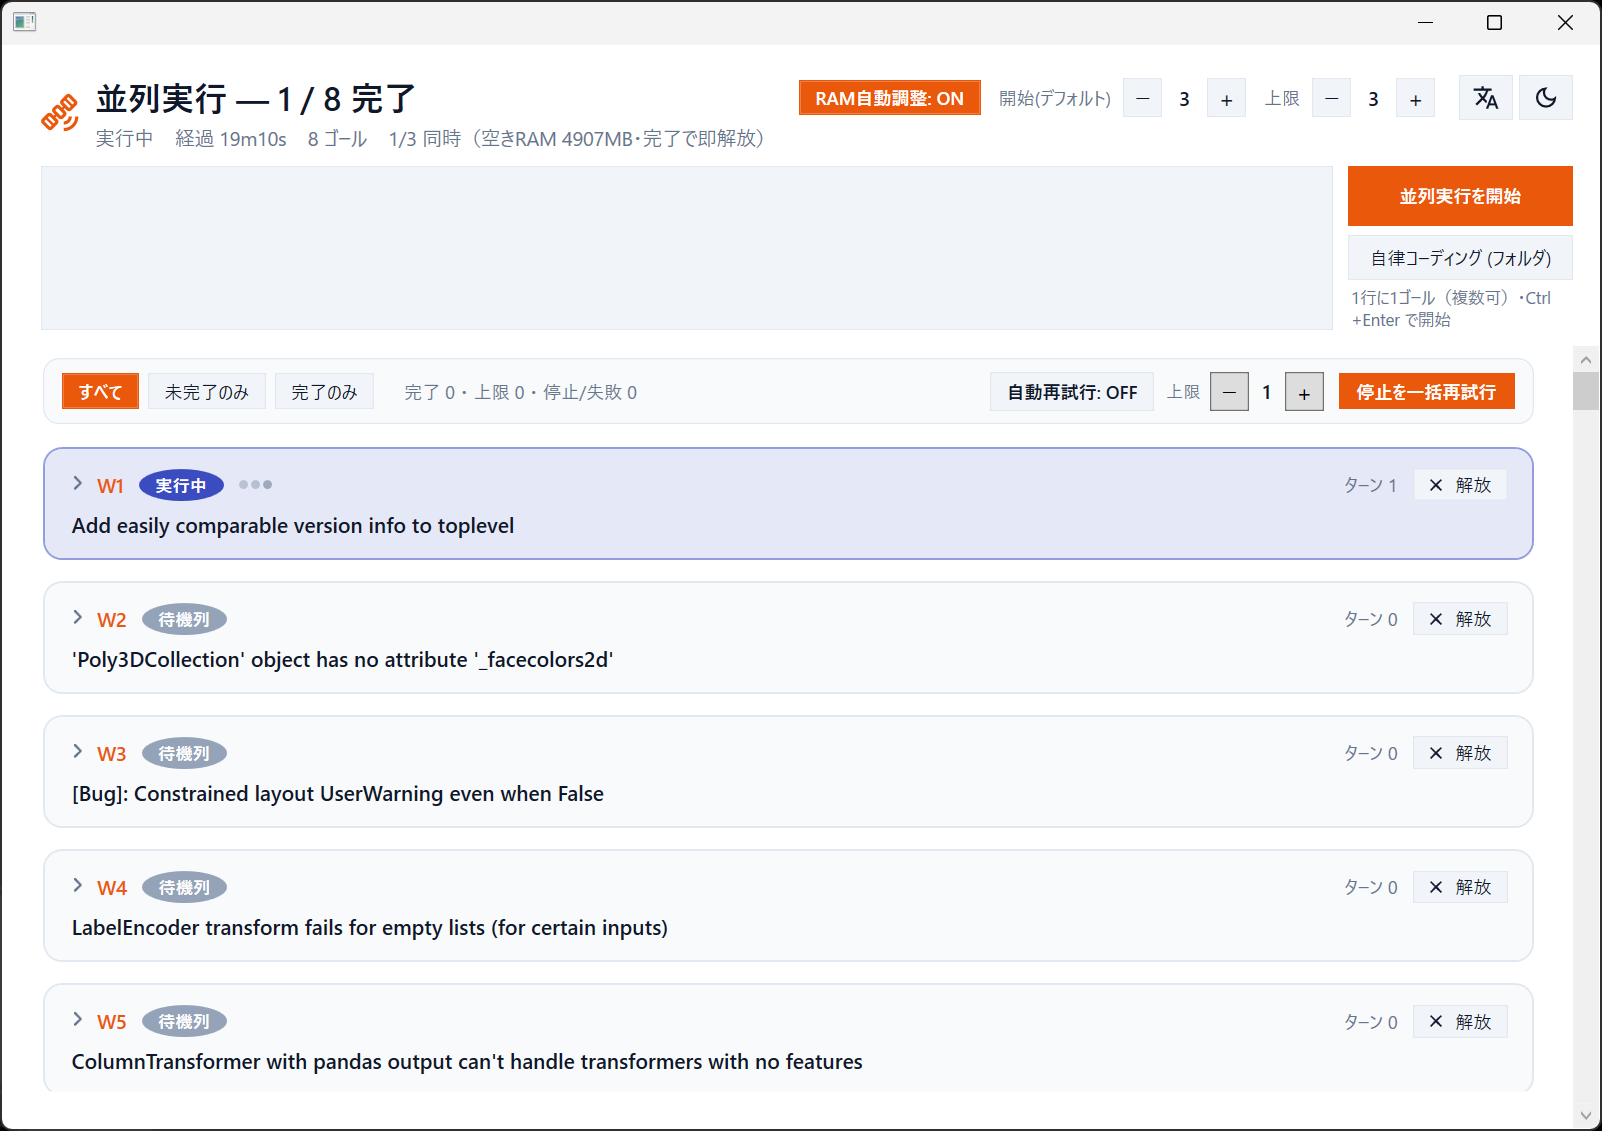
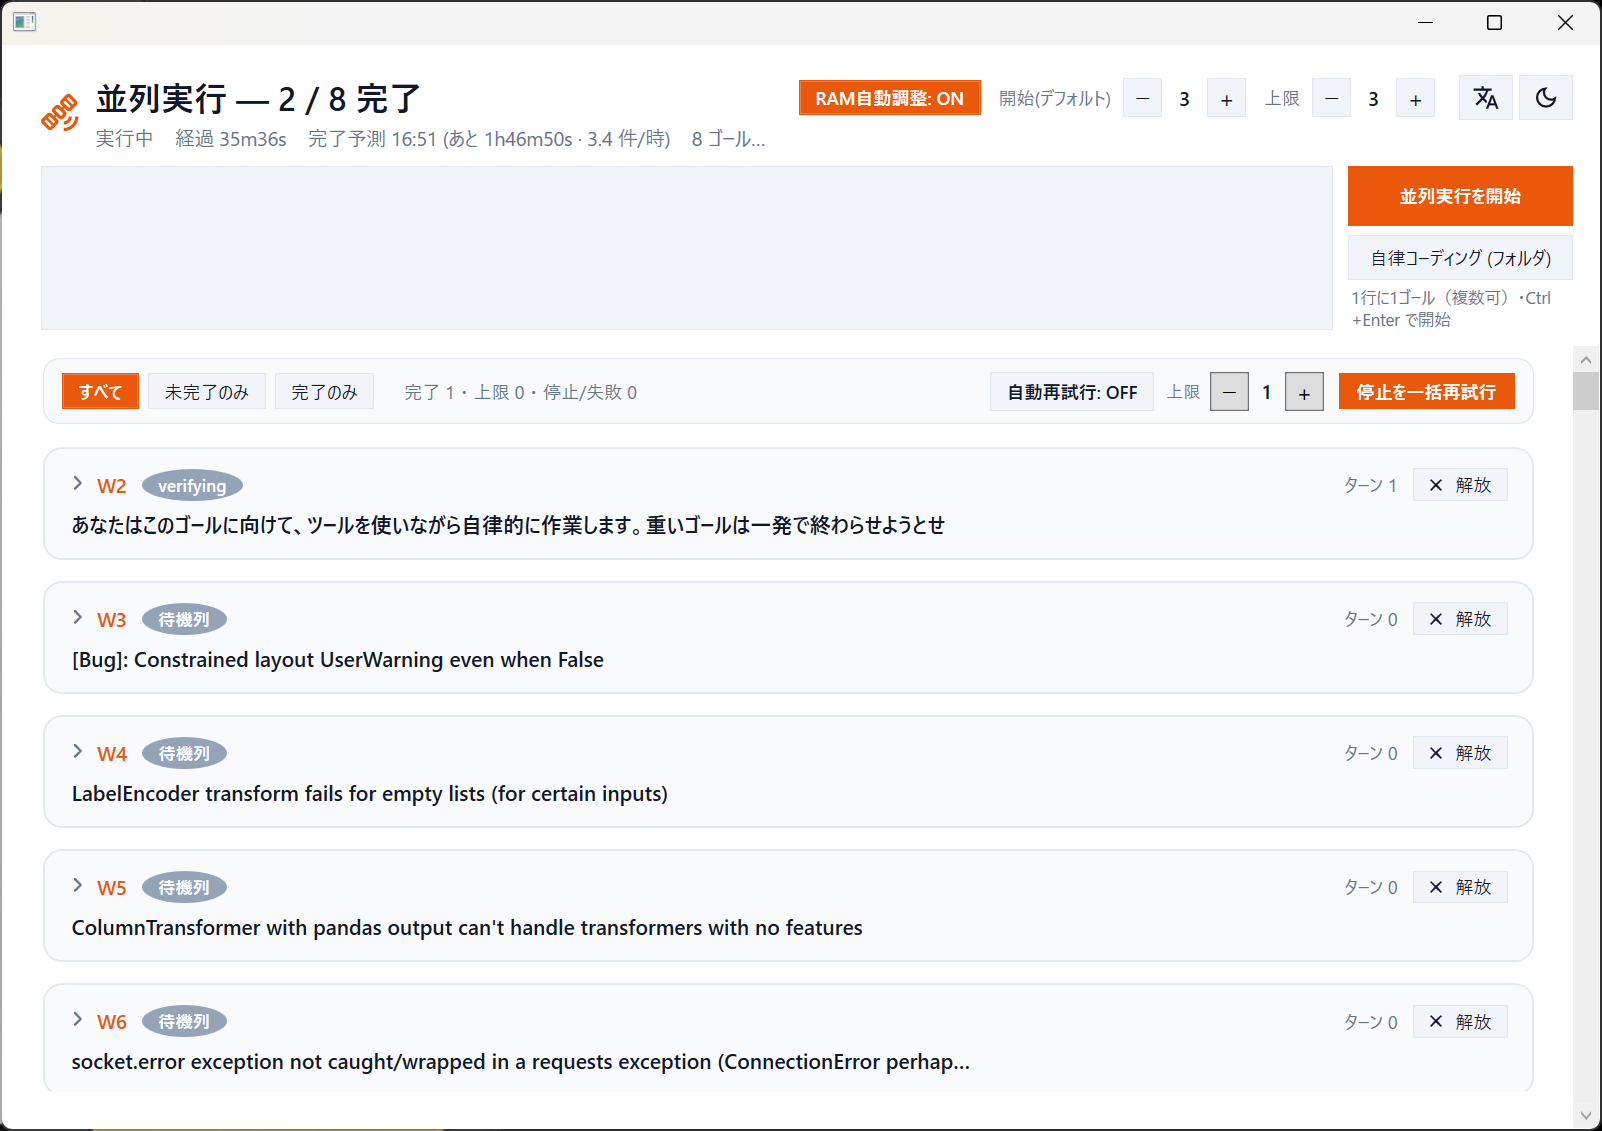
FleetCockpit: live ETA (completion-time forecast) in the header
Project remaining work from the throughput observed so far (done/elapsed): ETA = remaining *
(elapsed/done). Recomputed every tick with DateTime.Now, so it's a constantly-moving number --
'完了予測 16:51 (あと 1h44m · 3.4 件/h)'. It implicitly tracks concurrency: when 2 run in parallel,
done climbs faster -> higher rate -> ETA drops. Shows 計測中 until the first task completes (no
rate yet). Reuses the y/d/h/m/s Fmt for the countdown. README cockpit shot refreshed to show it.

diff --git a/ui/FleetCockpit.cs b/ui/FleetCockpit.cs
@@ -183,6 +183,10 @@ class CockpitWindow : Window
         if (k == "retry_note") return ja ? "再試行は走行中のみ反映されます" : "Retry only applies while a run is live";
         if (k == "autoretry") return ja ? "自動再試行" : "Auto-retry";
         if (k == "cap") return ja ? "上限" : "cap";
+        if (k == "eta") return ja ? "完了予測" : "ETA";
+        if (k == "eta_in") return ja ? "あと" : "in";
+        if (k == "eta_calc") return ja ? "計測中…" : "estimating…";
+        if (k == "rate") return ja ? "件/時" : "/h";
         return k;
     }
     string StatusLabel(string s)
@@ -1137,7 +1141,27 @@ class CockpitWindow : Window
         string state = running ? T("running") : T("done");
         if (running && updated > 0 && (NowUnix() - updated) > 8)
             state = T("running") + " — " + T("stale");
-        _sub.Text = state + "    " + T("elapsed") + " " + Fmt(elapsed) + "    " + total + " " + T("goals") + mem;
+        // Live ETA: project remaining work from the throughput observed SO FAR (done/elapsed). This
+        // implicitly tracks concurrency -- when 2 run in parallel, done climbs faster -> rate up ->
+        // ETA drops. Recomputed every tick (and finish-clock uses DateTime.Now), so it's the
+        // "constantly-moving number". Needs >=1 done to have a rate; until then show 計測中.
+        string eta = "";
+        if (running && total > 0 && done < total)
+        {
+            if (done > 0 && elapsed > 1.0)
+            {
+                double etaS = (total - done) * (elapsed / done);   // remaining / (done/elapsed)
+                double perH = done / elapsed * 3600.0;
+                eta = "    " + T("eta") + " " + DateTime.Now.AddSeconds(etaS).ToString("HH:mm")
+                      + " (" + T("eta_in") + " " + Fmt(etaS) + " · "
+                      + perH.ToString("0.#") + " " + T("rate") + ")";
+            }
+            else
+            {
+                eta = "    " + T("eta") + " " + T("eta_calc");
+            }
+        }
+        _sub.Text = state + "    " + T("elapsed") + " " + Fmt(elapsed) + eta + "    " + total + " " + T("goals") + mem;
         // The subtitle is ellipsis-trimmed at the column edge; expose the full text on hover.
         _sub.ToolTip = _sub.Text;
     }
